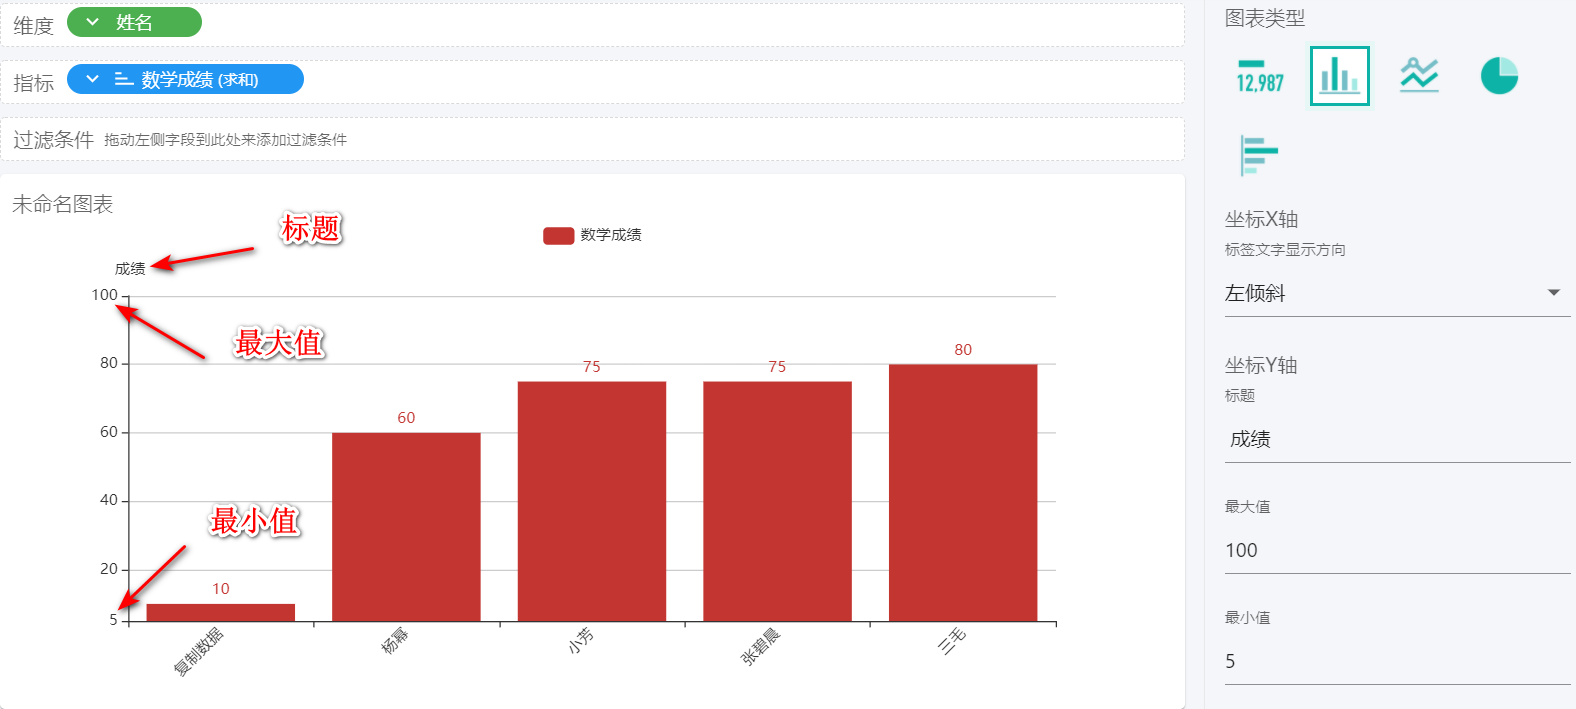
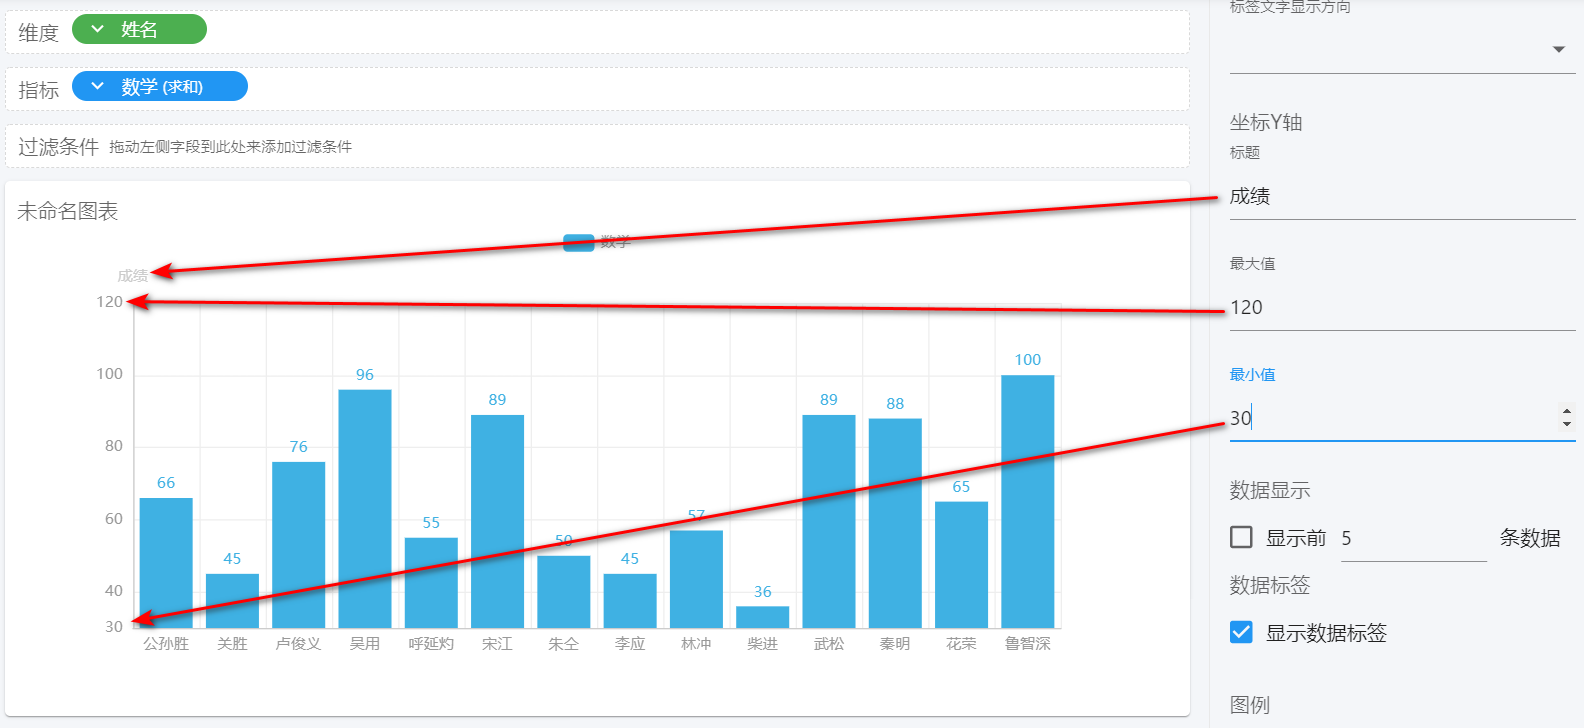
chore(dashboard): 仪表盘文档修改

diff --git a/dashboard/dashboard-chart.md b/dashboard/dashboard-chart.md
@@ -14,7 +14,7 @@
   - [(9)坐标 Y 轴](#坐标Y轴)
   - [(10)数据显示](#数据显示)
   - [(11)显示图例](#显示图例)
-- [统计表](#统计表)
+- [图表设置](#图表设置)
   - [(1)名称设置](#名称设置)
   - [(2)更改数据源](#更改数据源)
   - [(3)维度设置](#维度设置)
@@ -47,15 +47,15 @@
 
 - 数据源表单中的全部数据
 
-数据源表单中的数据权限指的就是不管成员在表单中的权限是怎样的，在访问该仪表盘组件时，里面所有的数据都是可见的。如，明细表，那么所有成员对每一条明细数据皆可查看；如果是统计表，那么展示的就是所有数据统计汇总的结果。
+  数据源表单中的数据权限指的就是不管成员在表单中的权限是怎样的，在访问该仪表盘组件时，里面所有的数据都是可见的。
 
 - 使用成员对数据源表单的权限
 
-在设置完表单后会给成员分配不同的操作权限，当该表单被选择为仪表盘的数据源时，可以沿用成员在该表单中的数据权限。如，成员 A 可以查看所有数据权限，成员 B 仅查看自己的数据权限，那么他们在仪表盘中的数据查看权限将会有所不同。
+  在设置完表单后会给成员分配不同的操作权限，当该表单被选择为仪表盘的数据源时，可以沿用成员在该表单中的数据权限。如，成员 A 可以查看所有数据权限，成员 B 仅查看自己的数据权限，那么对于同一个图表，他们看到的汇总结果是不同的。
 
 ### <span id='字段'>(3)字段</span>
 
-数据源表单中的字段。
+数据源表单中的字段。通常作为统计表里的维度和指标，拖动字段到「维度」和「指标」上，即可完成添加。
 
 ### <span id='维度'>(4)维度</span>
 
@@ -87,15 +87,9 @@
 
 ### <span id='显示图例'>(11)显示图例</span>
 
-设置图表的图示是否显示，以及图例的位置。
+设置图表的图示是否显示，以及图例的显示位置。
 
-### <span id='辅助线'>(11)辅助线</span>
-
-统计表中添加的辅助线，更好更形象的帮助理解统计结果。
-
-![辅助线](./images/fzx.gif)
-
-## <span id='统计表'>统计表</span>
+## <span id='图表设置'>图表设置</span>
 
 ### <span id='名称设置'>(1)名称设置</span>
 
@@ -119,9 +113,9 @@
 
 将鼠标放在维度字段上，字段末端有一个删除按钮，直接点击即可删除字段；点击维度字段，会出来「修改显示名称」和「删除字段」，点击可以对维度字段的名称进行修改，也可以将维度字段直接删除。
 
-![维度字段设置](./images/setWd.gif)
+·![维度字段设置](./images/setWd.gif)
 
-如果维度字段里有日期和地址字段的话，可以对字段进行汇总方式的设置。 日期字段的汇总方式有：日、周、月、季、年。
+如果维度字段里有日期字段的话，可以对字段进行汇总方式的设置。 日期字段的汇总方式有：日、周、月、季、年。
 
 ![日期汇总](./images/date.png)
 
@@ -173,15 +167,25 @@
 
 通过对坐标轴的最大/最小值的处理，可以使得数据间的对比更加明显，对于一些变化区间较小的数据监测，也能很直观的反映出数据波动情况。
 
+设置前：
+
 <img src="./images/yAxis-before.png" alt="设置前"  />
+
+设置后：
 
 <img src="./images/yAxis-after.png" alt="设置后"  />
 
 ### <span id='数据标签'>(10)数据标签</span>
 
-管理员可以会根据需要设置需要展示的数据标签内容
+数据标签分为纬度值、指标值、百分比三部分。例如`宋江 89 {9.3}%`，其中`宋江`是纬度值，`89`是指标值，`{9.3}%`是百分比。用户可根据自己的需求进行显示设置。
 
 <img src="./images/label.png" alt="数据标签"  />
+
+### <span id='辅助线'>(11)辅助线</span>
+
+统计表中添加的辅助线，更好更形象的帮助理解统计结果。
+
+![辅助线](./images/fzx.gif)
 
 ## <span id='图表大小及位置调整'>图表大小及位置调整</span>
 

diff --git a/dashboard/filter.md b/dashboard/filter.md
@@ -1,6 +1,6 @@
 # 筛选组件
 
-仪表盘做好后，可以设置筛选组件或者过滤条件
+图表设计完成后，可以设置筛选组件、添加筛选按钮。
 
 - [筛选组件](#筛选组件)
 - [筛选按钮](筛选按钮)
@@ -11,9 +11,11 @@
 
 `选择需要筛选的图表` >> `选择作为筛选项的字段` >> `设置筛选项`
 
-![](./images/create-filter.gif)
+可以同时为多个图表添加筛选项。每个图表分别添加自己的筛选字段，所有的筛选字段公用一个筛选器的值。
 
-如果筛选字段选择的是日期字段，筛选器的值会对应的切换为日期选择组件
+![筛选组件](./images/create-filter.gif)
+
+如果筛选字段选择的是日期字段，筛选器的值会对应的切换为日期选择组件。
 
 ![日期筛选](./images/filter-calander.png)
 

diff --git a/dashboard/publish.md b/dashboard/publish.md
@@ -4,7 +4,7 @@
 
 ![发布步骤](./images/publish.gif)
 
-仪表盘查看权限与数据获取权限的区别：
+仪表盘查看权限与图表数据获取权限的区别：
 
 - 仪表盘查看权限决定那些成员能够看到该仪表盘，针对整个仪表盘。
-- 数据获取权限决定成员获取到的图表对应表单的数据范围，针对单个图表。
+- 图表数据获取权限决定成员看到的仪表盘中的图表数据汇总范围，针对单个图表。

diff --git a/dashboard/README.md b/dashboard/README.md
@@ -1,10 +1,10 @@
 # 仪表盘
 
-仪表盘用来对已发布的表单产生的数据进行查看、分析和处理。
+仪表盘用来对已发布的表单产生的数据进行汇总、分析。
 
 ## 设置步骤
 
-**`应用`** >> **`新建仪表盘`** >> **`数据组件`**
+**`应用`** >> **`新建仪表盘`**
 
 ![设置步骤](./images/step.gif)
 

diff --git a/dashboard/theme.md b/dashboard/theme.md
@@ -23,7 +23,7 @@
 
 ## <span id='仪表盘样式'>仪表盘样式</span>
 
-仪表盘主体风格样式设置。现内置了四种主题风格供选择。
+仪表盘主体风格样式设置。默认提供了四种主题风格，用户可根据自己的习惯（喜好）进行选择。
 
 ![仪表盘样式](./images/theme-dashboard.png)
 
